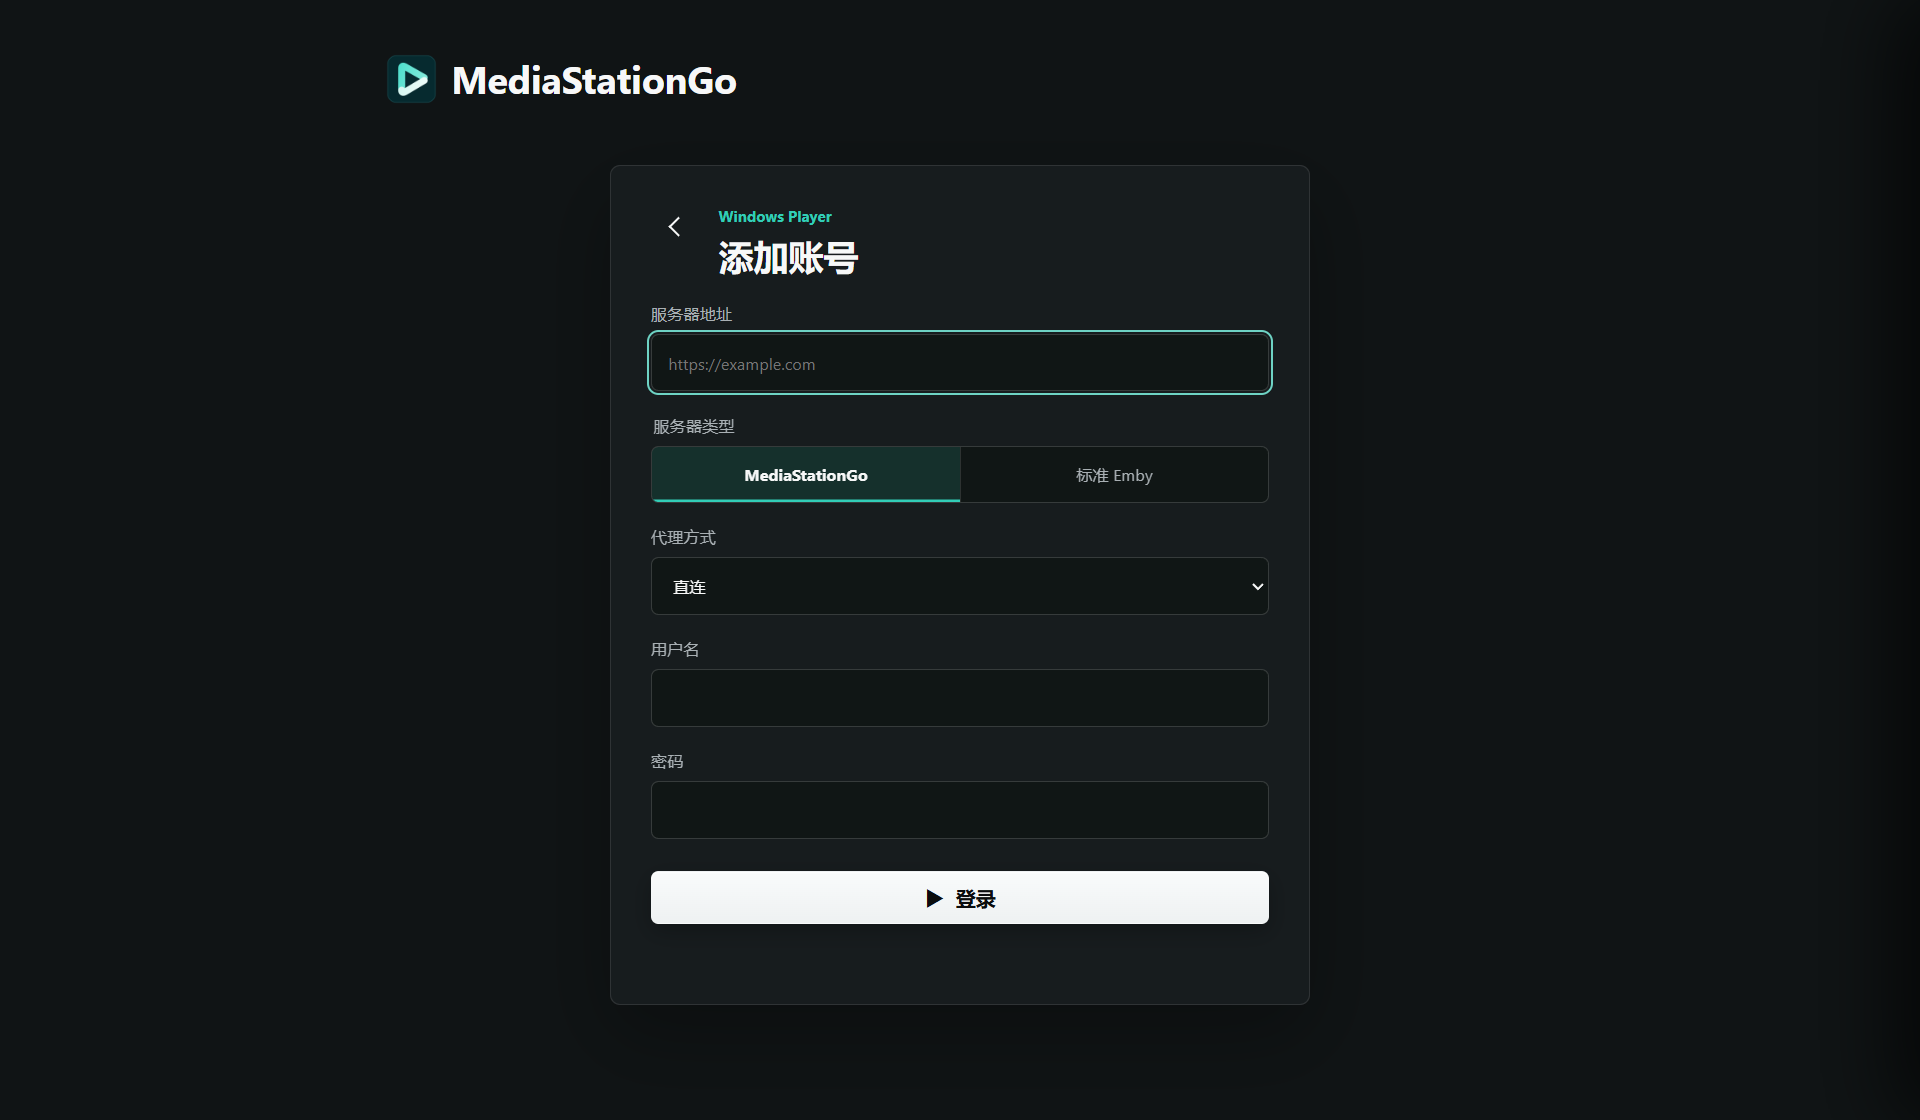
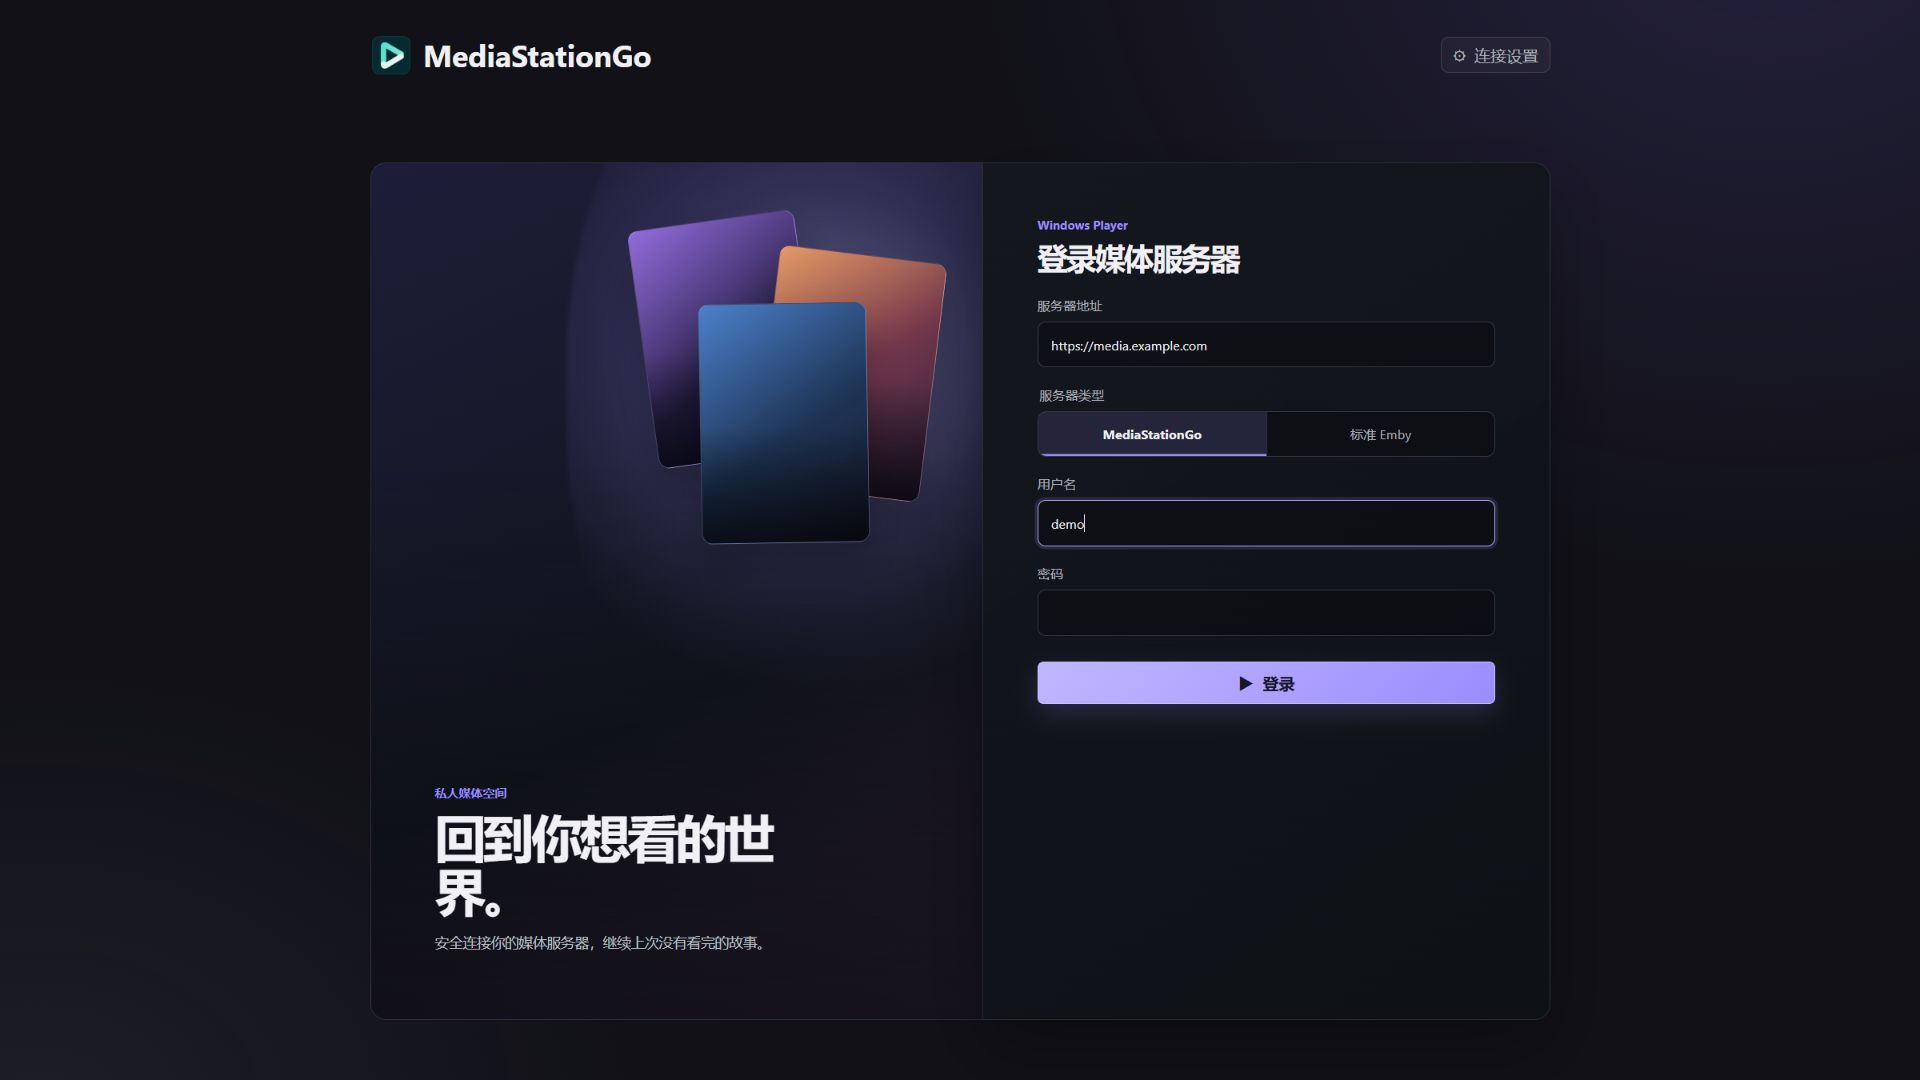
docs(readme): refresh overview and screenshots

diff --git a/README.md b/README.md
@@ -4,31 +4,80 @@
 [![Windows x64](https://img.shields.io/badge/platform-Windows%20x64-0078D4)](https://github.com/timefunnel/MediaStationGo-Windows/releases/latest)
 [![License: GPL-2.0](https://img.shields.io/badge/license-GPL--2.0-blue)](LICENSE)
 
-MediaStationGo 是面向 [MediaStationGo](https://github.com/timefunnel/MediaStationGo) 与标准 Emby 服务器的原生 Windows 媒体客户端。应用使用 CEF 构建桌面浏览界面，以 libmpv 负责原生播放，并由 Rust 层统一管理账号、媒体请求和播放会话。
+MediaStationGo for Windows 是面向 [MediaStationGo](https://github.com/timefunnel/MediaStationGo) 与标准 Emby 服务器的原生 Windows 媒体客户端。它以 CEF 构建桌面媒体界面，以 libmpv 负责原生播放，并由 Rust 层统一管理账号、媒体请求、播放会话和应用更新。
 
-[下载最新版本](https://github.com/timefunnel/MediaStationGo-Windows/releases/latest) · [提交问题](https://github.com/timefunnel/MediaStationGo-Windows/issues) · [查看发布流程](docs/windows-release-process.md)
+[下载最新版本](https://github.com/timefunnel/MediaStationGo-Windows/releases/latest) · [提交问题](https://github.com/timefunnel/MediaStationGo-Windows/issues) · [Windows 发布流程](docs/windows-release-process.md)
 
-![MediaStationGo 添加账号界面](docs/images/mediastationgo-add-account.png)
+![MediaStationGo 首页、媒体库与继续观看](docs/images/mediastationgo-home.png)
 
-## 主要功能
+## 核心功能
 
-- **完整媒体浏览**：首页推荐、继续观看、媒体库、类型筛选、搜索、详情、演职员作品和分季选集。
-- **原生播放体验**：硬件解码、HDR10、音轨与字幕切换、字幕样式、播放进度、倍速、全屏和剧集连续播放。
+- **完整媒体浏览**：首页推荐、继续观看、媒体库、类型与题材筛选、搜索、详情、演职员、分季选集。
+- **原生播放控制**：硬件解码、HDR10、播放进度、倍速、音量、全屏、音轨与字幕切换，以及默认或单片字幕样式。
+- **剧集连续观看**：播放器内选集、自动播放下一集、片头片尾跳过设置；退出播放后立即更新“继续观看”。
 - **多服务器与多账号**：支持 MediaStationGo 和标准 Emby，可保存、切换、修改或删除多个账号。
-- **安全的原生会话**：密码和访问令牌保存在 Windows 凭据管理器中，不暴露给页面脚本；媒体重定向与跨域请求按来源限制凭据。
-- **直链与 CDN 播放**：原生解析播放信息、验证重定向和 Range 支持，并复用已经验证的最终播放地址。
-- **应用内更新**：支持检查、下载、校验并确认安装 GitHub Release 更新。
-- **可选 RTX 插帧**：内置三档 RIFE TensorRT-RTX 模型，可按影片启用严格 2 倍插帧。
+- **安全原生会话**：密码和访问令牌保存在 Windows 凭据管理器中，不暴露给页面脚本；媒体重定向与跨域请求按来源限制凭据。
+- **网络与代理**：可在应用内切换直连或 Windows 系统代理，设置作用于当前会话及后续服务器连接。
+- **直链与 CDN 播放**：原生解析播放信息、验证重定向与 Range 支持，并复用已经验证的最终播放地址。
+- **应用内更新**：直接检查 GitHub Releases，下载并校验更新包；安装版启动安装程序，便携版可在应用内完成替换。
+- **可选 RTX 插帧**：内置三档 RIFE TensorRT-RTX 模型，可按影片启用严格 2 倍插帧，并明确展示组件和 Engine 状态。
+
+## 界面预览
+
+以下截图均使用虚构的片名、账号、服务器地址和版本号，仅用于展示界面，不包含真实媒体库或凭据。
+
+<table>
+  <tr>
+    <td width="50%">
+      <img src="docs/images/mediastationgo-add-account.png" alt="MediaStationGo 添加账号与服务器连接界面">
+      <br><strong>账号连接</strong><br>选择 MediaStationGo 或标准 Emby，并配置服务器与客户端身份。
+    </td>
+    <td width="50%">
+      <img src="docs/images/mediastationgo-library.png" alt="MediaStationGo 媒体库与筛选界面">
+      <br><strong>媒体库</strong><br>按媒体类型与题材筛选，以海报网格浏览内容。
+    </td>
+  </tr>
+  <tr>
+    <td width="50%">
+      <img src="docs/images/mediastationgo-search.png" alt="MediaStationGo 媒体搜索界面">
+      <br><strong>搜索</strong><br>统一搜索电影、剧集与单集，并直接进入详情。
+    </td>
+    <td width="50%">
+      <img src="docs/images/mediastationgo-detail.png" alt="MediaStationGo 媒体详情、演职员与选集界面">
+      <br><strong>详情与选集</strong><br>集中展示简介、评分、格式、演职员和继续播放位置。
+    </td>
+  </tr>
+  <tr>
+    <td width="50%">
+      <img src="docs/images/mediastationgo-player-episodes.png" alt="MediaStationGo 原生播放器与选集面板">
+      <br><strong>播放器</strong><br>播放进度、音量、倍速、音轨、字幕、RTX 插帧与播放器内选集。
+    </td>
+    <td width="50%">
+      <img src="docs/images/mediastationgo-settings-network.png" alt="MediaStationGo 网络与代理设置界面">
+      <br><strong>网络与代理</strong><br>在直连与 Windows 系统代理之间明确切换。
+    </td>
+  </tr>
+  <tr>
+    <td width="50%">
+      <img src="docs/images/mediastationgo-settings-playback.png" alt="MediaStationGo 字幕与 RTX 插帧设置界面">
+      <br><strong>播放与字幕</strong><br>调整默认字幕样式，并查看 RTX、模型和 Engine 状态。
+    </td>
+    <td width="50%">
+      <img src="docs/images/mediastationgo-settings-update.png" alt="MediaStationGo 应用内更新界面">
+      <br><strong>应用内更新</strong><br>检查、下载并确认应用 GitHub Release 更新。
+    </td>
+  </tr>
+</table>
 
 ## 下载与安装
 
 前往 [Releases](https://github.com/timefunnel/MediaStationGo-Windows/releases/latest) 下载最新 Windows x64 版本：
 
-- `MediaStationGo-<版本>-windows-x64-setup.exe`：安装程序，适合日常使用。
-- `MediaStationGo-<版本>-windows-x64-portable.zip`：便携包，解压后运行 `jellium-desktop.exe`。
+- `MediaStationGo-<版本>-windows-x64-setup.exe`：当前用户安装程序，适合日常使用，不要求管理员权限。
+- `MediaStationGo-<版本>-windows-x64-portable.zip`：便携包，完整解压后运行 `jellium-desktop.exe`。
 - `SHA256SUMS.txt`：安装包、便携包和源码包的 SHA-256 校验值。
 
-安装包默认安装到当前用户目录，不要求管理员权限。便携包需要保留压缩包中的完整目录结构，不能只复制主程序。
+便携版需要保留压缩包中的完整目录结构，不能只复制主程序。首次启动后，安装版和便携版都可以在“设置 → 更新”中检查新版本。
 
 可在 PowerShell 中计算文件校验值：
 
@@ -37,6 +86,16 @@ Get-FileHash .\MediaStationGo-<版本>-windows-x64-setup.exe -Algorithm SHA256
 ```
 
 将结果与同一 Release 中的 `SHA256SUMS.txt` 对照后再运行。
+
+## 快速开始
+
+1. 安装应用，或完整解压便携包后运行 `jellium-desktop.exe`。
+2. 添加账号，填写完整的 `http://` 或 `https://` 服务器地址、服务器类型、用户名和密码。
+3. 标准 Emby 可按服务器兼容性选择默认身份、SenPlayer 或 Infuse；MediaStationGo 使用原生连接配置。
+4. 如需使用 Windows 系统代理，在登录页或右上角“设置 → 网络与代理”中切换。
+5. 登录后从首页、媒体库或搜索进入详情页并开始播放。
+
+账号抽屉用于管理已保存账号；设置中心可调整主题、网络、默认字幕、图片缓存、RTX 插帧组件和应用更新。
 
 ## 系统要求
 
@@ -47,21 +106,11 @@ Get-FileHash .\MediaStationGo-<版本>-windows-x64-setup.exe -Algorithm SHA256
 RTX 插帧是可选功能，不影响普通播放。启用它还需要：
 
 - NVIDIA RTX 显卡和可用的 NVIDIA 驱动。
-- 20–30 FPS 片源；当前只执行严格 2 倍插帧。
+- 20–30 FPS 片源；当前执行严格 2 倍插帧。
 - 显示器当前刷新率不低于目标帧率。
 - SDR 或 HDR10 内容。HLG 尚未开放，HDR10+ 与 Dolby Vision 不支持插帧。
 
-不满足条件时应用会明确说明原因，不会静默切换模型或伪装成插帧成功。
-
-## 快速开始
-
-1. 安装应用，或完整解压便携包后运行 `jellium-desktop.exe`。
-2. 选择“添加账号”，填写服务器地址、服务器类型、连接方式、用户名和密码。
-3. 标准 Emby 可选择客户端配置；MediaStationGo 使用对应的原生连接配置。
-4. 登录后从首页、媒体库或搜索进入详情页并开始播放。
-5. 在右上角的账号抽屉中管理已保存账号，在设置抽屉中检查更新、调整默认字幕样式或查看 RTX 插帧组件状态。
-
-服务器地址应填写完整的 `http://` 或 `https://` 地址。请不要在公开 Issue 中粘贴访问令牌、密码、带签名的媒体地址或未脱敏日志。
+不满足条件时，应用会明确说明原因，不会静默切换模型或伪装成插帧成功。
 
 ## RTX 插帧档位
 
@@ -72,6 +121,20 @@ RTX 插帧是可选功能，不影响普通播放。启用它还需要：
 | 流畅优先 | RIFE v4.25 Lite | 优先较低推理开销 |
 
 首次使用某个档位时，应用会为当前显卡和驱动准备对应的 TensorRT Engine。Engine 缓存与具体 GPU、驱动和运行时绑定；环境变化后可能需要重新生成。
+
+## 安全与问题反馈
+
+请不要在公开 Issue 中粘贴访问令牌、密码、完整服务器地址、带签名的媒体地址或未脱敏日志。
+
+报告问题时，请提供：
+
+- 应用版本和安装方式。
+- Windows 版本、显卡型号和驱动版本。
+- 服务器类型（MediaStationGo 或标准 Emby）。
+- 可复现步骤、预期结果和实际错误信息。
+- 已脱敏的相关日志。
+
+请通过 [GitHub Issues](https://github.com/timefunnel/MediaStationGo-Windows/issues) 提交问题。
 
 ## 开发
 
@@ -91,18 +154,6 @@ just lint
 ```
 
 首次构建会准备 CEF、mpv 和其他原生依赖，耗时与磁盘占用会明显高于普通 Rust 项目。Windows 候选包和正式版本使用“构建一次、测试后原样晋升”的流程，详见 [Windows 发布流程](docs/windows-release-process.md)。
-
-## 项目状态与反馈
-
-MediaStationGo Windows 仍在持续演进。报告问题时，请提供：
-
-- 应用版本和安装方式。
-- Windows 版本、显卡型号和驱动版本。
-- 服务器类型（MediaStationGo 或标准 Emby）。
-- 可复现步骤、预期结果和实际错误信息。
-- 已脱敏的相关日志；请移除账号、服务器地址、令牌和媒体签名参数。
-
-请通过 [GitHub Issues](https://github.com/timefunnel/MediaStationGo-Windows/issues) 提交问题。
 
 ## 许可证与致谢
 
